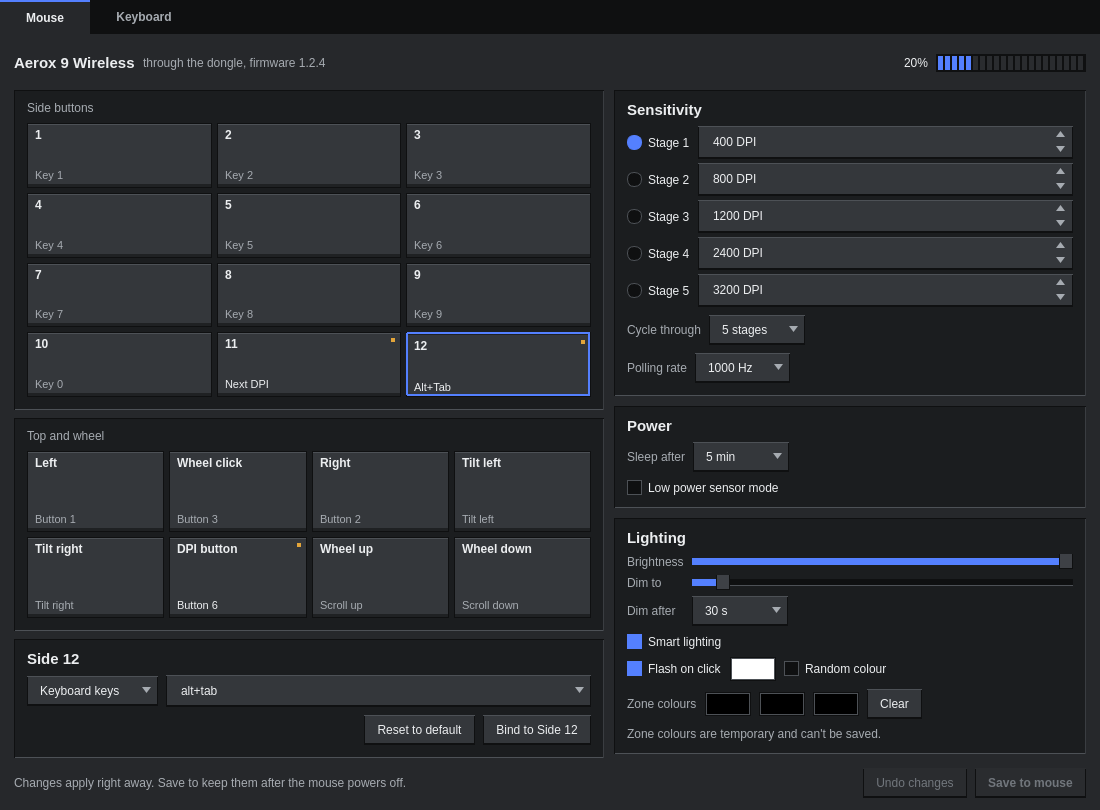
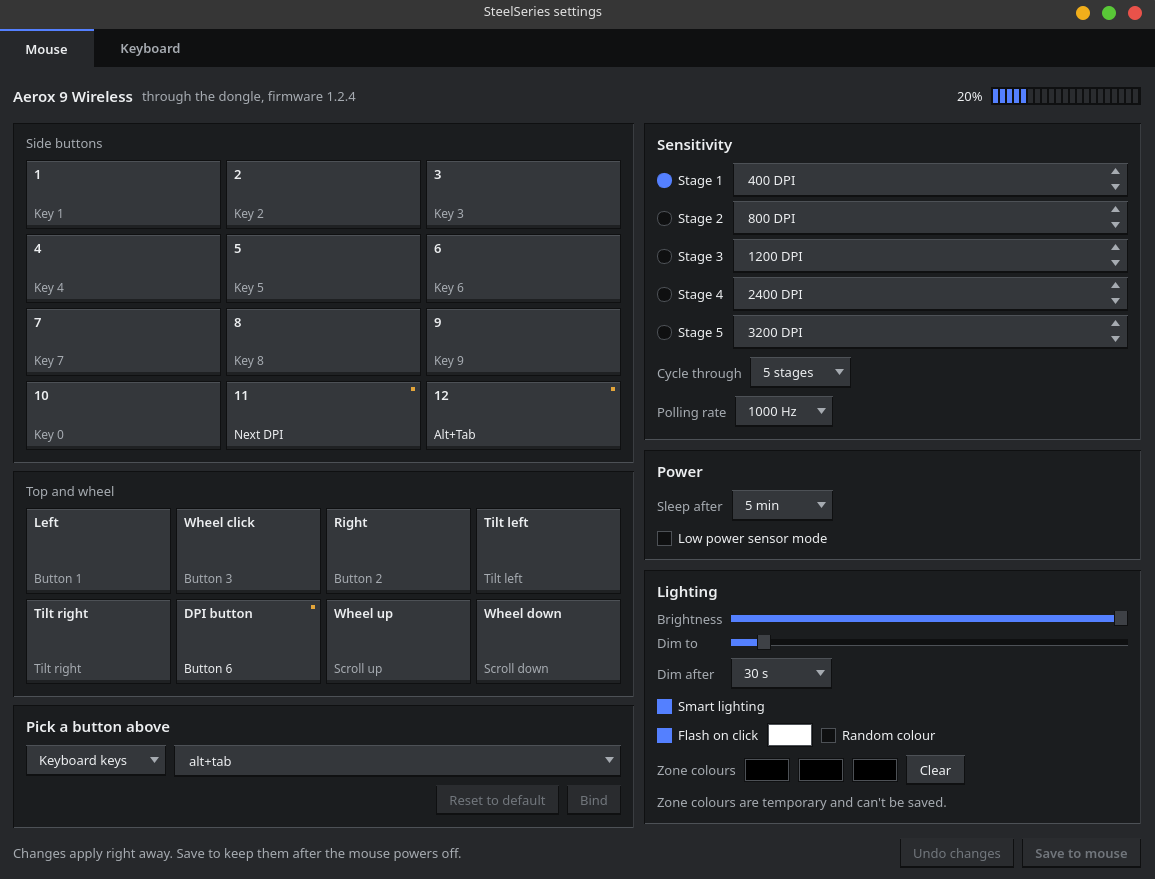
Use a real screenshot of the mouse page

Changed region(s): [[0.0, 0.0, 1.0, 0.9259], [0.0, 0.9568, 0.4018, 0.9877], [0.7727, 0.9568, 0.9891, 0.9877]]

diff --git a/aerox/README.md b/aerox/README.md
@@ -18,7 +18,7 @@ The command line needs only Python. The GUI also needs PySide6, and its keyboard
 
 ## GUI
 
-Run `aerox-gui`, or find "SteelSeries settings" in your application menu. The full-window screenshots use sample data.
+Run `aerox-gui`, or find "SteelSeries settings" in your application menu. The full keyboard page screenshots use sample data.
 
 Changes apply as you make them, but last only until the mouse powers off. **Save to mouse** writes them to its flash, and **Undo changes** goes back to how things were when the page loaded. The keyboard page works the same way, with **Save to keyboard**.
 
